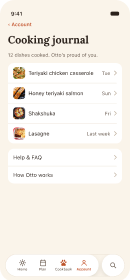
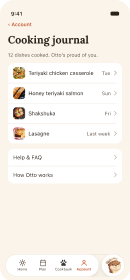
Flow: Otto AI takes the trailing tab circle; Search opens from Discover
- Figma: tab bar variant Active=Search -> Active=Otto with the otter face; chat
  screens are the Otto tab root (no close), Search screens pushed from Home;
  inactive paw icon greyed; map and 61 thumbnails rebuilt
- otto-next.html: Otto tab column (chat, consent, thinking, answer), Search and
  Results under Home, screens re-exported
- Rework roadmap D4, Phase 3 (R3.1, R3.3, R3.4) and Apple pass row 14 updated

Claude-Session: https://claude.ai/code/session_014pS8UXPanZ54E7nGt3nsw1

Changed region(s): [[0.8, 0.9143, 0.9538, 1.0], [0.4615, 0.9143, 0.5231, 0.9714]]

diff --git a/docs/tickets/rework-roadmap.html b/docs/tickets/rework-roadmap.html
@@ -47,7 +47,7 @@ a { color:var(--accent); }
   <p>How the app gets from today's flow (sign-up first, 5 tabs) to the Apple-checked flow on the current map: value before the account, a paywall with every outcome drawn, four tabs plus Search, and every door wired.</p>
   <p>Written 2026-11-04 from a read of the code at 1.0.23 (build 52). Source: <code>docs/tickets/REWORK_ROADMAP.md</code>.</p>
 </header>
-<nav class="strip" aria-label="Phases"><a href="#phase-0-foundations-no-visible-change"><b>P0</b><span>Foundations</span></a><a href="#phase-1-getting-in-entry-welcome-about-y"><b>P1</b><span>Getting in</span></a><a href="#phase-2-otto-club-no-x-and-every-outcome"><b>P2</b><span>Otto Club, no X, and every outcome</span></a><a href="#phase-3-tab-bar-home-plan-cookbook-accou"><b>P3</b><span>Tab bar: Home · Plan · Cookbook · Account + Search</span></a><a href="#phase-4-plan-tab-week-by-dates-shopping"><b>P4</b><span>Plan tab</span></a><a href="#phase-5-recipe-and-cook"><b>P5</b><span>Recipe and cook</span></a><a href="#phase-6-cookbook-and-add"><b>P6</b><span>Cookbook and Add</span></a><a href="#phase-7-account-and-settings"><b>P7</b><span>Account and settings</span></a><a href="#phase-8-doors-and-states"><b>P8</b><span>Doors and states</span></a><a href="#phase-9-apple-design-pass-from-04-apple-"><b>P9</b><span>Apple design pass</span></a><a href="#phase-10-release-1-1-0"><b>P10</b><span>Release 1.1.0</span></a></nav>
+<nav class="strip" aria-label="Phases"><a href="#phase-0-foundations-no-visible-change"><b>P0</b><span>Foundations</span></a><a href="#phase-1-getting-in-entry-welcome-about-y"><b>P1</b><span>Getting in</span></a><a href="#phase-2-otto-club-no-x-and-every-outcome"><b>P2</b><span>Otto Club, no X, and every outcome</span></a><a href="#phase-3-tab-bar-home-plan-cookbook-accou"><b>P3</b><span>Tab bar: Home · Plan · Cookbook · Account + Otto</span></a><a href="#phase-4-plan-tab-week-by-dates-shopping"><b>P4</b><span>Plan tab</span></a><a href="#phase-5-recipe-and-cook"><b>P5</b><span>Recipe and cook</span></a><a href="#phase-6-cookbook-and-add"><b>P6</b><span>Cookbook and Add</span></a><a href="#phase-7-account-and-settings"><b>P7</b><span>Account and settings</span></a><a href="#phase-8-doors-and-states"><b>P8</b><span>Doors and states</span></a><a href="#phase-9-apple-design-pass-from-04-apple-"><b>P9</b><span>Apple design pass</span></a><a href="#phase-10-release-1-1-0"><b>P10</b><span>Release 1.1.0</span></a></nav>
 <p>Written 2026-11-04 · branch <code>claude/new-session-izhr2i</code> · app at 1.0.23 (build 52). Published page: https://claude.ai/artifact/YVGJMYoY6UFK19fKoSK2sa (regenerate with <code>python3 docs/tickets/build_rework_roadmap.py</code>). Target: <code>docs/flow-maps/maps/otto-next.html</code> (current) and Figma "Otto — App Redesign" → page "v3 · Flow screens" + "Flow map — Otto next (current)". Apple pass: <code>docs/flow-maps/research/04_APPLE_DESIGN_FILE_PASS.md</code>.</p>
 <p>This roadmap is the order of work. It is a plan, not shipped code: nothing below exists yet unless it says <strong>exists</strong>.</p>
 <h2 id="1-where-the-code-is-today-read-2026-11-0">1. Where the code is today (read 2026-11-04)</h2>
@@ -57,11 +57,11 @@ a { color:var(--accent); }
 <p>The new flow moves <strong>value before the account</strong>. That single change drives most of the code work:</p>
 <div class="scroll"><pre>today:   splash → sign up → 3 paintings → paywall → 5 tabs
 next:    launch shell → Welcome → 3 questions → your first week → save your plan (account)
-         → Otto Club (no X) → App Store sheet → you&#x27;re all set → reminders → 4 tabs + Search</pre></div>
+         → Otto Club (no X) → App Store sheet → you&#x27;re all set → reminders → 4 tabs + Otto</pre></div>
 <p>What that means in code, in one breath:</p>
-<ol><li><strong>A draft lives on the phone before there is an account.</strong> The answers and the generated week are held locally, then <em>claimed</em> into the account the moment sign-up finishes.</li><li><strong>The gate learns more states.</strong> Welcome (not sign-up) is the signed-out door; "has a draft" sends a returning signed-out person back to Save your plan; lapsed and pending get their own screens.</li><li><strong>The paywall turns outcomes into screens</strong>, and reminders move to after the purchase.</li><li><strong>The tab bar is rebuilt</strong>: Home (Tonight + This week + Discover), Plan (with the list), Cookbook, Account, and a trailing Search tab. The ＋ Create tab goes away; Ask Otto lives on Home and in Search.</li><li><strong>Doors get wired</strong>: universal links, notification taps, What's new, offline, not found — all through one "where was this person going" intent that survives sign-in and purchase.</li></ol>
+<ol><li><strong>A draft lives on the phone before there is an account.</strong> The answers and the generated week are held locally, then <em>claimed</em> into the account the moment sign-up finishes.</li><li><strong>The gate learns more states.</strong> Welcome (not sign-up) is the signed-out door; "has a draft" sends a returning signed-out person back to Save your plan; lapsed and pending get their own screens.</li><li><strong>The paywall turns outcomes into screens</strong>, and reminders move to after the purchase.</li><li><strong>The tab bar is rebuilt</strong>: Home (Tonight + This week + Discover), Plan (with the list), Cookbook, Account, and <strong>Otto, the AI, as the separate circle at the trailing end</strong> (the spot iOS 26 gives Search; Juan, 2026-11-04: talking with Otto is the app's big feature). The ＋ Create tab goes away. Search becomes a screen pushed from Discover's search field.</li><li><strong>Doors get wired</strong>: universal links, notification taps, What's new, offline, not found — all through one "where was this person going" intent that survives sign-in and purchase.</li></ol>
 <h2 id="3-decisions-for-juan-before-phase-1">3. Decisions for Juan before Phase 1</h2>
-<div class="scroll"><table><thead><tr><th>#</th><th>Decision</th><th>Recommendation</th><th>Why it matters to code</th></tr></thead><tbody><tr><td class="id">D1</td><td>Where preferences live</td><td><strong>On the account</strong> (new <code>profiles</code> row, RLS own-row), kv as offline cache</td><td>Today they're phone-only; a new phone loses diet/allergies. The 3 answers need a home the draft can be claimed into</td></tr><tr><td class="id">D2</td><td>Allergies stored server-side?</td><td>Yes, as a plain list, labelled "Preferences" in the privacy answers</td><td>Changes the App Privacy answers (Other user content) — must be updated before release</td></tr><tr><td class="id">D3</td><td>Signed-out person with a draft who closes the app</td><td>Reopen on <strong>Save your plan</strong>, the week still there</td><td>Draft must persist in kv, not memory</td></tr><tr><td class="id">D4</td><td>Tab bar tech</td><td><strong>NativeTabs</strong> (<code>expo-router/unstable-native-tabs</code>) for Liquid Glass + a real Search tab; JS tabs as fallback</td><td>Native is the only way to get the iOS 26 floating bar and <code>role="search"</code>; it's marked unstable</td></tr><tr><td class="id">D5</td><td>Version</td><td><strong>1.1.0</strong> for the new flow</td><td>A flow change this size deserves What's new and a clean review note</td></tr><tr><td class="id">D6</td><td>Lock-screen timer (Live Activity)</td><td><strong>Later (P2)</strong></td><td>Needs a native widget extension; not needed for the flow</td></tr></tbody></table></div>
+<div class="scroll"><table><thead><tr><th>#</th><th>Decision</th><th>Recommendation</th><th>Why it matters to code</th></tr></thead><tbody><tr><td class="id">D1</td><td>Where preferences live</td><td><strong>On the account</strong> (new <code>profiles</code> row, RLS own-row), kv as offline cache</td><td>Today they're phone-only; a new phone loses diet/allergies. The 3 answers need a home the draft can be claimed into</td></tr><tr><td class="id">D2</td><td>Allergies stored server-side?</td><td>Yes, as a plain list, labelled "Preferences" in the privacy answers</td><td>Changes the App Privacy answers (Other user content) — must be updated before release</td></tr><tr><td class="id">D3</td><td>Signed-out person with a draft who closes the app</td><td>Reopen on <strong>Save your plan</strong>, the week still there</td><td>Draft must persist in kv, not memory</td></tr><tr><td class="id">D4</td><td>Tab bar tech</td><td><strong>NativeTabs</strong> (<code>expo-router/unstable-native-tabs</code>) for the iOS 26 floating bar; the Otto circle is the trailing slot iOS reserves for Search (<code>role="search"</code> without a search field), JS tabs as fallback</td><td>The trailing circle is styled by the system for search. Spike: confirm it can host a chat screen with an otter icon and no search field; if not, a custom bar draws the same shape</td></tr><tr><td class="id">D5</td><td>Version</td><td><strong>1.1.0</strong> for the new flow</td><td>A flow change this size deserves What's new and a clean review note</td></tr><tr><td class="id">D6</td><td>Lock-screen timer (Live Activity)</td><td><strong>Later (P2)</strong></td><td>Needs a native widget extension; not needed for the flow</td></tr></tbody></table></div>
 <h2 id="4-phases">4. Phases</h2>
 <p>Each phase is a set of small PRs that keep <code>main</code> shippable. Phases 0–3 are the flow; 4–8 the tabs and features; 9 is the Apple polish pass; 10 is release. Sizes are rough: S ≤ ½ day, M ≈ 1–2 days, L ≈ 3–5 days.</p>
 <h3 id="phase-0-foundations-no-visible-change"><span class="ph">P0</span>Foundations (no visible change)</h3>
@@ -70,8 +70,8 @@ next:    launch shell → Welcome → 3 questions → your first week → save y
 <div class="scroll"><table><thead><tr><th>ID</th><th>Work</th><th>Size</th><th>Notes</th></tr></thead><tbody><tr><td class="id">R1.1</td><td><strong>Launch screen</strong> = Welcome's empty cream shell: <code>expo-splash-screen</code> config, no logo, no text. Hide it when the gate resolves. Delete <code>Splash.tsx</code>'s otter.</td><td class="size">S</td><td>Apple page 14. The otter + wordmark move onto Welcome</td></tr><tr><td class="id">R1.2</td><td><strong>Welcome</strong> route <code>app/welcome.tsx</code>: one screen, painting hero, left-aligned title, Get started · I have an account. Replaces <code>onboarding.tsx</code> (3 paintings).</td><td class="size">S</td><td>Keep the paintings as heroes elsewhere</td></tr><tr><td class="id">R1.3</td><td><strong>Three questions</strong> <code>app/about/[step].tsx</code>: Who's eating · How do you eat (diet + allergies) · Anything to skip. "Question n of 3", Skip on each. Writes to the draft.</td><td class="size">M</td><td>Allergy copy: "Otto will leave these out. Always check labels."</td></tr><tr><td class="id">R1.4</td><td><strong>Your first week</strong> <code>app/first-week.tsx</code>: builds the week (R0.6), loads in place (no "building" screen), summary line, Save my week.</td><td class="size">M</td><td>The value moment. Cards reuse <code>RecipeCard</code></td></tr><tr><td class="id">R1.5</td><td><strong>Save your plan</strong> = today's sign-up, moved: Apple first, same size as Google / Facebook; email path. No Skip. After success → <code>claimDraft</code> → paywall.</td><td class="size">M</td><td><code>SignUpScreen.tsx</code> gets a <code>context="save-plan"</code> header; Sign in keeps "I have an account"</td></tr><tr><td class="id">R1.6</td><td><strong>Sign in</strong> from Welcome: returning person who signs in skips questions (account already onboarded) → gate decides member / paywall.</td><td class="size">S</td><td><code>onboarded_at</code> stays the "skip questions" flag</td></tr><tr><td class="id">R1.7</td><td>Guards: new routes in a <code>!signedIn</code> group (welcome, about, first-week); <code>(auth)</code> stays signed-out only.</td><td class="size">S</td><td>Every new route declared in <code>RootStack</code> — the existing rule</td></tr></tbody></table></div>
 <h3 id="phase-2-otto-club-no-x-and-every-outcome"><span class="ph">P2</span>Otto Club, no X, and every outcome</h3>
 <div class="scroll"><table><thead><tr><th>ID</th><th>Work</th><th>Size</th><th>Notes</th></tr></thead><tbody><tr><td class="id">R2.1</td><td><strong>Paywall layout</strong>: four benefit lines, $39.99/yr leads (billed amount most prominent), monthly second, dated trial terms ("Free until Nov 11, then $39.99/year…"), Restore · Terms · Privacy · Sign out. No close.</td><td class="size">M</td><td><code>trialEndDate(introTrialDays, now)</code> pure + tested; copy from <code>localizedPriceString</code> only — never hard-code price</td></tr><tr><td class="id">R2.2</td><td><strong>Outcomes as screens</strong>: cancelled → stay, no message; error → native alert "nothing was charged"; pending → <code>app/club/pending.tsx</code> (listens for the entitlement, opens on its own); unconfirmed → keep today's honest copy + retry sync.</td><td class="size">M</td><td><code>BuyResult</code> already returns all of these — this is UI wiring</td></tr><tr><td class="id">R2.3</td><td><strong>Restore</strong>: none → native alert, stay; ok → "Purchases restored" then Home.</td><td class="size">S</td><td><code>RestoreResult</code> exists</td></tr><tr><td class="id">R2.4</td><td><strong>You're all set</strong> <code>app/club/welcome.tsx</code>: names tonight's dinner and the list.</td><td class="size">S</td><td></td></tr><tr><td class="id">R2.5</td><td><strong>Reminders primer</strong> after "You're all set": Continue → system alert; Not now → skip. Remove the ask from anywhere earlier.</td><td class="size">S</td><td><code>ensurePermission</code> exists</td></tr><tr><td class="id">R2.6</td><td><strong>Club ended</strong> <code>app/club/ended.tsx</code>: "Everything is still here", Resubscribe → paywall. Gate state <code>ended</code> = had the entitlement before (<code>allExpirationDates</code> / <code>latestExpirationDate</code>), not now.</td><td class="size">M</td><td>Data is never deleted on lapse</td></tr><tr><td class="id">R2.7</td><td><strong>Grace period</strong>: turn on Billing Grace Period in App Store Connect; in app, <code>entitlement.billingIssueDetectedAt</code> → quiet banner on Home "Update payment" → <code>openManageSubscriptions</code>. Access continues.</td><td class="size">S</td><td>ASC setting is Juan's click</td></tr><tr><td class="id">R2.8</td><td><strong>Trial ending reminder</strong>: local notification 2 days before <code>expirationDate</code> while <code>periodType === 'TRIAL'</code>, only if reminders are on. Tap → Membership.</td><td class="size">S</td><td>Rescheduled by <code>NotifSync</code></td></tr></tbody></table></div>
-<h3 id="phase-3-tab-bar-home-plan-cookbook-accou"><span class="ph">P3</span>Tab bar: Home · Plan · Cookbook · Account + Search</h3>
-<div class="scroll"><table><thead><tr><th>ID</th><th>Work</th><th>Size</th><th>Notes</th></tr></thead><tbody><tr><td class="id">R3.1</td><td><strong>NativeTabs</strong> layout (D4) with SF Symbols, Search as <code>role="search"</code> at the trailing end; JS fallback for web/Android with the same 5 entries.</td><td class="size">M</td><td>Spike first: confirm Expo SDK 54's native tabs build on EAS with Xcode 26</td></tr><tr><td class="id">R3.2</td><td><strong>Home</strong> = Tonight (big card, Start cooking · Swap) + This week (date strip) + Discover (Otto's pick, categories, new). Merge <code>DiscoverScreen</code> sections; delete the Discover tab.</td><td class="size">L</td><td>Tonight reads <code>plan_entries</code> for today; empty → "Pick tonight"</td></tr><tr><td class="id">R3.3</td><td><strong>Search tab</strong>: browse by kind + recent; results with filters; nothing found → Ask Otto with the query prefilled. Move search out of Discover.</td><td class="size">M</td><td></td></tr><tr><td class="id">R3.4</td><td><strong>Remove the ＋ Create tab</strong>: Ask Otto opens from Home (card) and Search (empty state) as a pushed screen <code>app/ask.tsx</code>; <code>/chats</code> stays for history. <code>TabBarCreateButton</code> deleted.</td><td class="size">M</td><td>Deep links to <code>/create</code> redirect to <code>/ask</code></td></tr><tr><td class="id">R3.5</td><td><strong>Restore last tab</strong> on relaunch (kv), Home on first run.</td><td class="size">S</td><td>Old ticket F4</td></tr><tr><td class="id">R3.6</td><td>Fix from the old ticket: Cookbook empty-state "Explore" pushes the Home tab, not <code>/</code>. Delete unreachable signed-out branch in <code>ChatScreen</code>.</td><td class="size">S</td><td>F6</td></tr></tbody></table></div>
+<h3 id="phase-3-tab-bar-home-plan-cookbook-accou"><span class="ph">P3</span>Tab bar: Home · Plan · Cookbook · Account + Otto</h3>
+<div class="scroll"><table><thead><tr><th>ID</th><th>Work</th><th>Size</th><th>Notes</th></tr></thead><tbody><tr><td class="id">R3.1</td><td><strong>NativeTabs</strong> layout (D4): SF Symbols for the four tabs, the Otto circle at the trailing end with the otter face (<code>otto-happy</code> art) and the label “Otto” for VoiceOver; JS fallback for web/Android with the same 5 entries.</td><td class="size">M</td><td>Spike first: Expo SDK 54 native tabs on EAS with Xcode 26, and whether the trailing slot accepts a non-search screen</td></tr><tr><td class="id">R3.2</td><td><strong>Home</strong> = Tonight (big card, Start cooking · Swap) + This week (date strip) + Discover (Otto's pick, categories, new). Merge <code>DiscoverScreen</code> sections; delete the Discover tab.</td><td class="size">L</td><td>Tonight reads <code>plan_entries</code> for today; empty → "Pick tonight"</td></tr><tr><td class="id">R3.3</td><td><strong>Search</strong> as a screen pushed from Discover's search field (<code>app/search.tsx</code>, back to Home): browse by kind + recent; results with filters; nothing found → Ask Otto with the query prefilled.</td><td class="size">M</td><td>Today's Discover search moves here</td></tr><tr><td class="id">R3.4</td><td><strong>Otto tab</strong> replaces the ＋ Create tab: <code>app/(tabs)/otto.tsx</code> = <code>ChatScreen</code> as a tab root (no close button; history icon stays, new chat from the header). Home's Ask Otto card and Search's empty state switch to this tab with the prompt prefilled. <code>/chats</code> stays for history; <code>TabBarCreateButton</code> deleted.</td><td class="size">M</td><td>Deep links to <code>/create</code> redirect to the Otto tab. AI consent still asks before the first message</td></tr><tr><td class="id">R3.5</td><td><strong>Restore last tab</strong> on relaunch (kv), Home on first run.</td><td class="size">S</td><td>Old ticket F4</td></tr><tr><td class="id">R3.6</td><td>Fix from the old ticket: Cookbook empty-state "Explore" pushes the Home tab, not <code>/</code>. Delete unreachable signed-out branch in <code>ChatScreen</code>.</td><td class="size">S</td><td>F6</td></tr></tbody></table></div>
 <h3 id="phase-4-plan-tab-week-by-dates-shopping"><span class="ph">P4</span>Plan tab (week by dates + shopping)</h3>
 <div class="scroll"><table><thead><tr><th>ID</th><th>Work</th><th>Size</th><th>Notes</th></tr></thead><tbody><tr><td class="id">R4.1</td><td>Week view: date strip, tonight first, empty days read "Open. No plans, no guilt."</td><td class="size">M</td><td>Dates exist (<code>weekDays</code>)</td></tr><tr><td class="id">R4.2</td><td>Dish actions sheet: cooked · swap · move to another day · leftovers tomorrow · remove.</td><td class="size">M</td><td><code>move</code> = update <code>day</code>; leftovers = copy entry with a note</td></tr><tr><td class="id">R4.3</td><td>Open day → Pick a meal (Saved · Discover · Ask Otto).</td><td class="size">S</td><td></td></tr><tr><td class="id">R4.4</td><td>Otto plans my week: fill only empty days with <code>buildFirstWeek</code> rules.</td><td class="size">S</td><td>Reuses R0.6</td></tr><tr><td class="id">R4.5</td><td>Shopping list as a Plan segment (by aisle, each item names its recipe); <code>/shopping</code> stays as a deep link target.</td><td class="size">M</td><td><code>shoppingList.ts</code> exists</td></tr><tr><td class="id">R4.6</td><td>Share with household from the list (invite · join · one live list).</td><td class="size">S</td><td>Household exists; move the entry point</td></tr></tbody></table></div>
 <h3 id="phase-5-recipe-and-cook"><span class="ph">P5</span>Recipe and cook</h3>

diff --git a/docs/flow-maps/maps/otto-next.html b/docs/flow-maps/maps/otto-next.html
@@ -105,7 +105,7 @@ tr.us td{background:color-mix(in srgb,var(--hi) 8%,transparent);font-weight:600}
   <div class="sizer" id="sizer"><div class="canvas" id="canvas">
     <div class="head">
       <h2>Flow map</h2>
-      <p>The entire Otto app as one flow, checked against Apple’s standard iOS flow (hard-paywall variant): launch screen → welcome → three questions, each with Skip → your first week → save your plan (Apple first) → Otto Club, no X → App Store sheet → you’re all set → reminders in context → Home, Plan, Cookbook, Account, plus a Search tab. Returning people skip all of it: auto sign-in, then Home if Otto Club is active, the paywall if not. Other doors (a dinner notification or widget, a shared link, an offline launch) run the same check, then open their screen.</p>
+      <p>The entire Otto app as one flow, checked against Apple’s standard iOS flow (hard-paywall variant): launch screen → welcome → three questions, each with Skip → your first week → save your plan (Apple first) → Otto Club, no X → App Store sheet → you’re all set → reminders in context → Home, Plan, Cookbook, Account, plus Otto, the AI, as the trailing circle. Returning people skip all of it: auto sign-in, then Home if Otto Club is active, the paywall if not. Other doors (a dinner notification or widget, a shared link, an offline launch) run the same check, then open their screen.</p>
       <div class="legend" id="legend"></div>
     </div>
     <svg class="edges" id="edges"></svg>
@@ -234,11 +234,11 @@ tr.us td{background:color-mix(in srgb,var(--hi) 8%,transparent);font-weight:600}
       <tr><td><span class="tag t-add">New</span></td><td>Food questions (×6)</td><td>Who's eating · diet · allergies · anything to skip · weeknight time · what matters.</td></tr>
       <tr><td><span class="tag t-add">New</span></td><td>Taste swipe · Building · Your first week</td><td>The plan reveal before the account and the paywall.</td></tr>
       <tr><td><span class="tag t-chg">Move</span></td><td>Sign up</td><td>From the first screen to after the reveal, as “Save your plan”. No Skip: the trial needs an account.</td></tr>
-      <tr><td><span class="tag t-chg">Move</span></td><td>Notifications ask</td><td>After Save your plan, before the paywall. Primed, Not now allowed.</td></tr>
+      <tr><td><span class="tag t-chg">Move</span></td><td>Notifications ask</td><td>After the purchase, on “You’re all set”, when there is a plan to remind about. Primed, Not now allowed.</td></tr>
       <tr><td><span class="tag t-chg">Change</span></td><td>Otto Club paywall</td><td>No X. Billed amount leads, trial timeline, Restore, Terms, Privacy, Sign out, Delete account. Members never see it.</td></tr>
       <tr><td><span class="tag t-add">New</span></td><td>Welcome to the Club</td><td>One screen after the purchase, then Home.</td></tr>
-      <tr><td><span class="tag t-chg">Merge</span></td><td>Discover + Today → Home</td><td>One scroll: Tonight → This week → Discover. Ask Otto next to search.</td></tr>
-      <tr><td><span class="tag t-rm">Remove</span></td><td>Create tab (center ＋)</td><td>Ask Otto moves to Home, Add a recipe to Cookbook's ＋.</td></tr>
+      <tr><td><span class="tag t-chg">Merge</span></td><td>Discover + Today → Home</td><td>One scroll: Tonight → This week → Discover. Search opens from Discover’s search field.</td></tr>
+      <tr><td><span class="tag t-rm">Remove</span></td><td>Create tab (center ＋)</td><td>Ask Otto becomes the Otto circle at the trailing end of the tab bar (Otto is the app’s big feature, so it gets the spot iOS gives Search). Add a recipe goes to Cookbook’s ＋.</td></tr>
       <tr><td><span class="tag t-chg">Move</span></td><td>Shopping list</td><td>Inside Plan.</td></tr>
       <tr><td><span class="tag t-chg">Change</span></td><td>Plan</td><td>Built on dates: week → day → pick a meal. “Otto plans my week” on the week.</td></tr>
       <tr><td><span class="tag t-chg">Change</span></td><td>Membership page</td><td>Only in Account, only for members: plan, renewal date, Manage (Apple's sheet). Back arrow.</td></tr>
@@ -252,7 +252,7 @@ tr.us td{background:color-mix(in srgb,var(--hi) 8%,transparent);font-weight:600}
 const ST={search:"--s-core",entry:"--s-entry",welcome:"--s-welcome",q:"--s-q",reveal:"--s-reveal",account:"--s-account",pay:"--s-pay",tab:"--s-home",home:"--s-core",cook:"--s-core",plan:"--s-q",book:"--s-reveal",set:"--s-set",perm:"--s-perm",proof:"--s-proof"};
 const COLS=[
  ["entry","Entry"],["welcome","Welcome · sign in"],["q","About you · 3 questions"],["reveal","Your plan"],["account","Save your plan"],["pay","Otto Club · no X"],
- ["tab","Tab bar · 4 + Search"],["home","Home tab"],["cook","Recipe + cook"],["search","Search tab"],["plan","Plan tab"],["book","Cookbook tab"],["set","Account · settings"]];
+ ["tab","Tab bar · 4 + Otto"],["home","Home tab"],["cook","Recipe + cook"],["search","Otto tab · AI"],["plan","Plan tab"],["book","Cookbook tab"],["set","Account · settings"]];
 const LEG=[["Entry","--s-entry"],["Welcome","--s-welcome"],["Question","--s-q"],["Result","--s-reveal"],["Account","--s-account"],["Permission","--s-perm"],["Paywall","--s-pay"],["Tab","--s-home"],["Feature","--s-core"],["Settings","--s-set"]];
 
 /* ---------------------------------------------------------------- CARDS
@@ -295,26 +295,26 @@ const N=[
  ["tplan",6,1,"tab","Plan","Week by dates + shopping list","Today: Plan tab","planFilled"],
  ["tbook",6,2,"tab","Cookbook","Saved · Mine · Cooked, ＋ Add","Today: Cookbook tab","cookbook"],
  ["tacct",6,3,"tab","Account","Membership, household, privacy","Today: Account tab","tacct"],
- ["tsearch",6,4,"tab","Search","Its own tab at the trailing end","new","search"],
+ ["totto",6,4,"tab","Otto","Ask Otto by text or voice. The circle at the trailing end","Today: ＋ Create tab, moved","chatStart"],
 
  ["tonight",7,0,"home","Tonight","Tonight’s dinner, big. Start cooking · Swap","new","today"],
  ["thisweek",7,1,"home","This week","The next days’ dinners on dates","new","thisweek"],
  ["discover",7,2,"home","Discover","Otto’s pick, categories, new recipes","Today: Discover","discover"],
- ["ask",7,3,"home","Ask Otto","Text or voice, from Home","Today: Create tab, moved","chatStart"],
- ["consent",7,4,"perm","AI consent","Names OpenAI. Allow · Not now. First time only","Today: consent sheet","consent","sys"],
- ["thinking",7,5,"home","Otto’s thinking","Uses your kitchen answers. Cancel anytime","new","thinking"],
- ["answer",7,6,"home","Answer as a recipe","Save · add to plan · cook","Today: chat answer","chatAnswer"],
- ["grace",7,7,"pay","Payment problem","Billing retry: access continues, quiet banner","new","grace"],
- ["whatsnew",7,8,"home","What’s new","Dismissible sheet, once","new","whatsnew"],
- ["notfound",7,9,"home","Recipe not found","“Otto couldn’t find that one” + similar","new","notfound"],
+ ["ask",9,0,"home","Chat with Otto","What are you hungry for? Text or voice, suggestions","Today: Create tab","chatStart"],
+ ["consent",9,1,"perm","AI consent","Names OpenAI. Allow · Not now. First time only","Today: consent sheet","consent","sys"],
+ ["thinking",9,2,"home","Otto’s thinking","Uses your kitchen answers. Cancel anytime","new","thinking"],
+ ["answer",9,3,"home","Answer as a recipe","Save · add to plan · cook","Today: chat answer","chatAnswer"],
+ ["grace",7,5,"pay","Payment problem","Billing retry: access continues, quiet banner","new","grace"],
+ ["whatsnew",7,6,"home","What’s new","Dismissible sheet, once","new","whatsnew"],
+ ["notfound",7,7,"home","Recipe not found","“Otto couldn’t find that one” + similar","new","notfound"],
 
  ["recipe",8,0,"cook","Recipe","Photo, servings, estimate, paw save, add to plan","Today: /recipe/[id]","recipe","key"],
  ["mise",8,1,"cook","Mise en place","Gather and check off","Today: cook mode","mise"],
  ["steps",8,2,"cook","Cook mode","Big type, timers, lock-screen timer","Today: /recipe/cook/[id]","cookStep"],
  ["finish",8,3,"cook","Dinner, done","Thumbs · snap the plate · journal · rating once","Today: cook finish","dinnerDone"],
 
- ["search",9,0,"home","Search","Browse by kind, recent searches","Today: Discover search","search"],
- ["results",9,1,"home","Results","Filters, food first. Nothing → Ask Otto","Today: Discover search","results"],
+ ["search",7,3,"home","Search","From Discover’s search field. Browse by kind, recent","Today: Discover search","search"],
+ ["results",7,4,"home","Results","Filters, food first. Nothing → Ask Otto","Today: Discover search","results"],
 
  ["pweek",10,0,"plan","Week","Date strip, tonight first. Empty days inviting","Today: Plan, rebuilt","planFilled"],
  ["pday",10,1,"plan","Dish actions","Cooked · swap · move · leftovers · remove","new","planActions"],
@@ -351,11 +351,11 @@ const E=[
  ["pay","buy","start trial"],["buy","club"],["club","remind"],["remind","thome"],
  ["buy","fail","failed",1,"skip"],["buy","pending","Ask to Buy",1,"skip"],["pay","restorenone","restore · none",1,"skip"],["pay","restored","restore · found",1,"skip"],
  ["ended","pay","resubscribe",1,"skip"],
- ["thome","tplan"],["tplan","tbook"],["tbook","tacct"],["tacct","tsearch"],
+ ["thome","tplan"],["tplan","tbook"],["tbook","tacct"],["tacct","totto"],
  ["thome","tonight"],["tonight","recipe"],["recipe","mise"],["mise","steps"],["steps","finish"],
  ["ask","consent","first time"],["consent","thinking","allow"],["thinking","answer"],["answer","recipe","",1],
  ["ppick","recipe","",1,"topback"],["bsaved","recipe","",1,"topback"],["results","recipe","",1,"topback"],
- ["tsearch","search","",0,"top"],["search","results"],
+ ["totto","ask","",0,"top"],["discover","search","search field"],["search","results"],
  ["tplan","pweek","",0,"top"],["pday","ppick","",1],["pshop","phouse","share"],
  ["tbook","bsaved","",0,"top"],["badd","bcampri","photo",1],["bcampri","bcam"],["bcam","breview"],["breview","bedit","fix",1],
  ["tacct","amember","",0,"top"],["aprivacy","adelx"],["adelx","adelete"],["adelete","adeleted"],

diff --git a/docs/tickets/REWORK_ROADMAP.md b/docs/tickets/REWORK_ROADMAP.md
@@ -39,7 +39,7 @@ The new flow moves **value before the account**. That single change drives most 
 ```
 today:   splash → sign up → 3 paintings → paywall → 5 tabs
 next:    launch shell → Welcome → 3 questions → your first week → save your plan (account)
-         → Otto Club (no X) → App Store sheet → you're all set → reminders → 4 tabs + Search
+         → Otto Club (no X) → App Store sheet → you're all set → reminders → 4 tabs + Otto
 ```
 
 What that means in code, in one breath:
@@ -50,7 +50,9 @@ What that means in code, in one breath:
    a returning signed-out person back to Save your plan; lapsed and pending get their own screens.
 3. **The paywall turns outcomes into screens**, and reminders move to after the purchase.
 4. **The tab bar is rebuilt**: Home (Tonight + This week + Discover), Plan (with the list), Cookbook,
-   Account, and a trailing Search tab. The ＋ Create tab goes away; Ask Otto lives on Home and in Search.
+   Account, and **Otto, the AI, as the separate circle at the trailing end** (the spot iOS 26 gives Search; Juan,
+   2026-11-04: talking with Otto is the app's big feature). The ＋ Create tab goes away. Search becomes a
+   screen pushed from Discover's search field.
 5. **Doors get wired**: universal links, notification taps, What's new, offline, not found — all
    through one "where was this person going" intent that survives sign-in and purchase.
 
@@ -63,7 +65,7 @@ What that means in code, in one breath:
 | D1 | Where preferences live | **On the account** (new `profiles` row, RLS own-row), kv as offline cache | Today they're phone-only; a new phone loses diet/allergies. The 3 answers need a home the draft can be claimed into |
 | D2 | Allergies stored server-side? | Yes, as a plain list, labelled "Preferences" in the privacy answers | Changes the App Privacy answers (Other user content) — must be updated before release |
 | D3 | Signed-out person with a draft who closes the app | Reopen on **Save your plan**, the week still there | Draft must persist in kv, not memory |
-| D4 | Tab bar tech | **NativeTabs** (`expo-router/unstable-native-tabs`) for Liquid Glass + a real Search tab; JS tabs as fallback | Native is the only way to get the iOS 26 floating bar and `role="search"`; it's marked unstable |
+| D4 | Tab bar tech | **NativeTabs** (`expo-router/unstable-native-tabs`) for the iOS 26 floating bar; the Otto circle is the trailing slot iOS reserves for Search (`role="search"` without a search field), JS tabs as fallback | The trailing circle is styled by the system for search. Spike: confirm it can host a chat screen with an otter icon and no search field; if not, a custom bar draws the same shape |
 | D5 | Version | **1.1.0** for the new flow | A flow change this size deserves What's new and a clean review note |
 | D6 | Lock-screen timer (Live Activity) | **Later (P2)** | Needs a native widget extension; not needed for the flow |
 
@@ -111,14 +113,14 @@ and features; 9 is the Apple polish pass; 10 is release. Sizes are rough: S ≤ 
 | R2.7 | **Grace period**: turn on Billing Grace Period in App Store Connect; in app, `entitlement.billingIssueDetectedAt` → quiet banner on Home "Update payment" → `openManageSubscriptions`. Access continues. | S | ASC setting is Juan's click |
 | R2.8 | **Trial ending reminder**: local notification 2 days before `expirationDate` while `periodType === 'TRIAL'`, only if reminders are on. Tap → Membership. | S | Rescheduled by `NotifSync` |
 
-### Phase 3 — Tab bar: Home · Plan · Cookbook · Account + Search
+### Phase 3 — Tab bar: Home · Plan · Cookbook · Account + Otto
 
 | ID | Work | Size | Notes |
 |---|---|---|---|
-| R3.1 | **NativeTabs** layout (D4) with SF Symbols, Search as `role="search"` at the trailing end; JS fallback for web/Android with the same 5 entries. | M | Spike first: confirm Expo SDK 54's native tabs build on EAS with Xcode 26 |
+| R3.1 | **NativeTabs** layout (D4): SF Symbols for the four tabs, the Otto circle at the trailing end with the otter face (`otto-happy` art) and the label “Otto” for VoiceOver; JS fallback for web/Android with the same 5 entries. | M | Spike first: Expo SDK 54 native tabs on EAS with Xcode 26, and whether the trailing slot accepts a non-search screen |
 | R3.2 | **Home** = Tonight (big card, Start cooking · Swap) + This week (date strip) + Discover (Otto's pick, categories, new). Merge `DiscoverScreen` sections; delete the Discover tab. | L | Tonight reads `plan_entries` for today; empty → "Pick tonight" |
-| R3.3 | **Search tab**: browse by kind + recent; results with filters; nothing found → Ask Otto with the query prefilled. Move search out of Discover. | M | |
-| R3.4 | **Remove the ＋ Create tab**: Ask Otto opens from Home (card) and Search (empty state) as a pushed screen `app/ask.tsx`; `/chats` stays for history. `TabBarCreateButton` deleted. | M | Deep links to `/create` redirect to `/ask` |
+| R3.3 | **Search** as a screen pushed from Discover's search field (`app/search.tsx`, back to Home): browse by kind + recent; results with filters; nothing found → Ask Otto with the query prefilled. | M | Today's Discover search moves here |
+| R3.4 | **Otto tab** replaces the ＋ Create tab: `app/(tabs)/otto.tsx` = `ChatScreen` as a tab root (no close button; history icon stays, new chat from the header). Home's Ask Otto card and Search's empty state switch to this tab with the prompt prefilled. `/chats` stays for history; `TabBarCreateButton` deleted. | M | Deep links to `/create` redirect to the Otto tab. AI consent still asks before the first message |
 | R3.5 | **Restore last tab** on relaunch (kv), Home on first run. | S | Old ticket F4 |
 | R3.6 | Fix from the old ticket: Cookbook empty-state "Explore" pushes the Home tab, not `/`. Delete unreachable signed-out branch in `ChatScreen`. | S | F6 |
 

diff --git a/docs/flow-maps/research/04_APPLE_DESIGN_FILE_PASS.md b/docs/flow-maps/research/04_APPLE_DESIGN_FILE_PASS.md
@@ -19,7 +19,7 @@ Source: Figma `jWn55Rq4u6cbukA2JeqOaI` (read only), page 48 "Flow map — the st
 | 11 | Link / notification in every state: content missing explains itself; signed out → sign-in sheet with context behind, then the destination (48) | Shared link → Recipe | New: Not found state. Trial-ending reminder entry (2 days before the charge) |
 | 12 | Update → What's new, once, dismissible, major releases only (48) | Not drawn | New entry + What's new sheet |
 | 13 | Offline is a state: cached content + quiet banner; explain only network-only actions (22) | Banner | Copy: "You're offline. Your plan and list still work." |
-| 14 | Tab bar floats on Liquid Glass; Search is a dedicated trailing tab; Add lives in a toolbar (27, 01) | Search inside Home | Tabs Home · Plan · Cookbook · Account + Search tab at the trailing end |
+| 14 | Tab bar floats on Liquid Glass; Search is a dedicated trailing tab; Add lives in a toolbar (27, 01) | Search inside Home | Tabs Home · Plan · Cookbook · Account + **Otto** in the separate trailing circle. Juan (2026-11-04): talking with Otto is the big feature, so Otto takes the slot Apple gives Search; Search opens from Discover's search field |
 | 15 | Settings: Privacy & data (AI toggle naming OpenAI, download my data, Delete account in red); delete = explain → confirm → deleted (48, 5.1.1(v)) | AI data row; one alert | Privacy & data screen; Delete account explain screen → confirm → "Your account is deleted" |
 | 16 | Subscription settings: plan, renewal date, Manage, Restore, refund help (44) | Membership | Add "Request a refund" |
 | 17 | iOS 26 alerts: bolder, left-aligned (01, 15) | Centered alerts | Alerts restyled |
